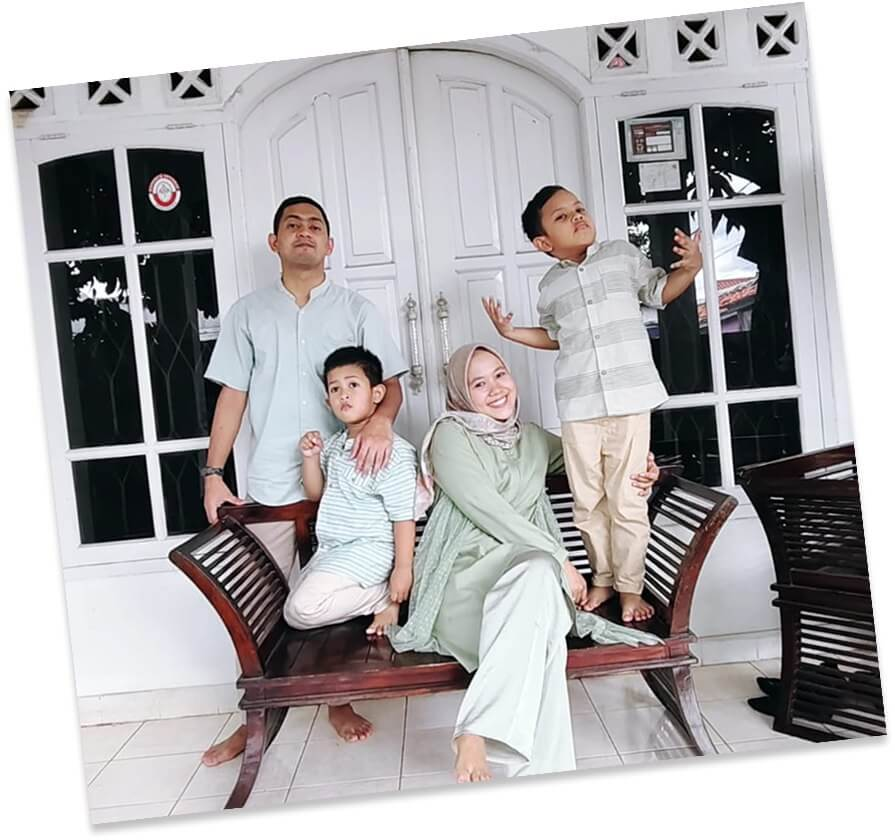
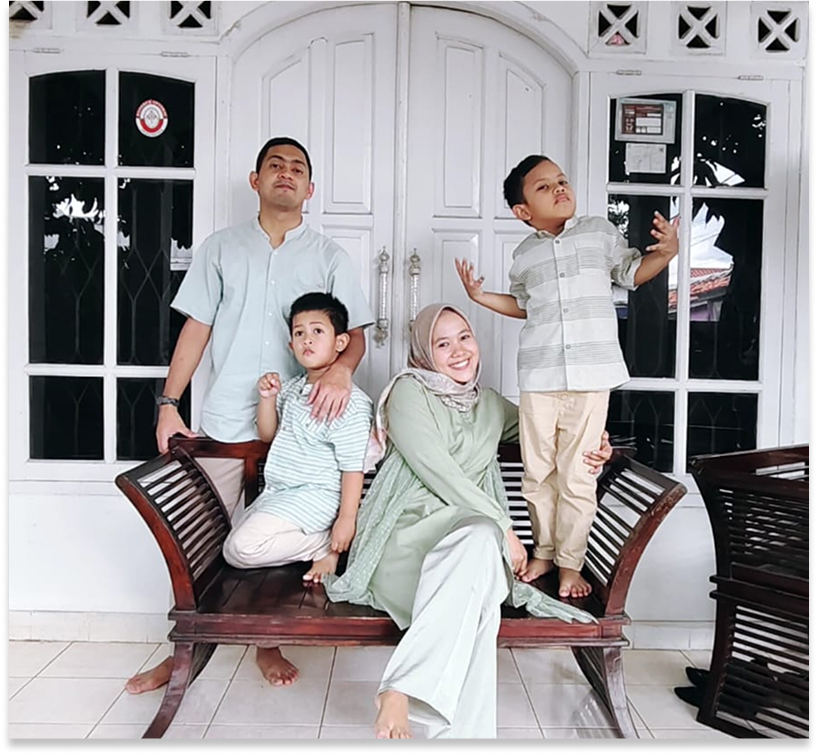
change image and paragraf about

diff --git a/about/index.html b/about/index.html
@@ -42,13 +42,16 @@
     <main class="container site-content about-content">
       <p>About Arif Purnomo</p>
       <section>
-        <img src="/images/photo-1.jpg" alt="Photo 1" width="400" height="400" />
+        <img src="/images/photo-about.jpg" alt="Photo 1" />
       </section>
       <section>
-        Hi, I'm Arif, a software developer who loves working on fullstack
-        development, from frontend to backend. I live in Jakarta with my wife,
-        Dinda, who's always been my biggest supporter, and our two amazing sons
-        whom I love dearly.
+        I am a graduate in Architecture with hands-on experience in utilizing a
+        wide range of software tools, including both 2D and 3D applications, as
+        well as design software such as Adobe Photoshop. In addition to my
+        technical skills, I possess strong soft skills, including the ability to
+        coordinate effectively with stakeholders and collaborate across
+        departments. Technology plays a vital role in my daily work, and I
+        continuously adapt to new tools and innovations in the field.
       </section>
       <section>
         I'm passionate about learning new things, especially anything related to
@@ -61,6 +64,7 @@
           <li>Reading</li>
           <li>Traveling</li>
           <li>Coding</li>
+          <li>Sports</li>
         </ul>
       </section>
     </main>

diff --git a/contact/index.html b/contact/index.html
@@ -40,7 +40,11 @@
         </p>
       </header>
 
-      <form class="contact-form">
+      <form
+        action="https://formspree.io/purnomoarifdepok@gmail.com"
+        method="POST"
+        class="contact-form"
+      >
         <div class="form-group">
           <label for="full-name">Full Name:</label>
           <input type="text" id="full-name" name="full-name" required />

diff --git a/index.css b/index.css
@@ -81,7 +81,7 @@ a {
 }
 
 .photo-2 {
-  transform: rotate(15deg);
+ 
 }
 
 .tech-stack {
